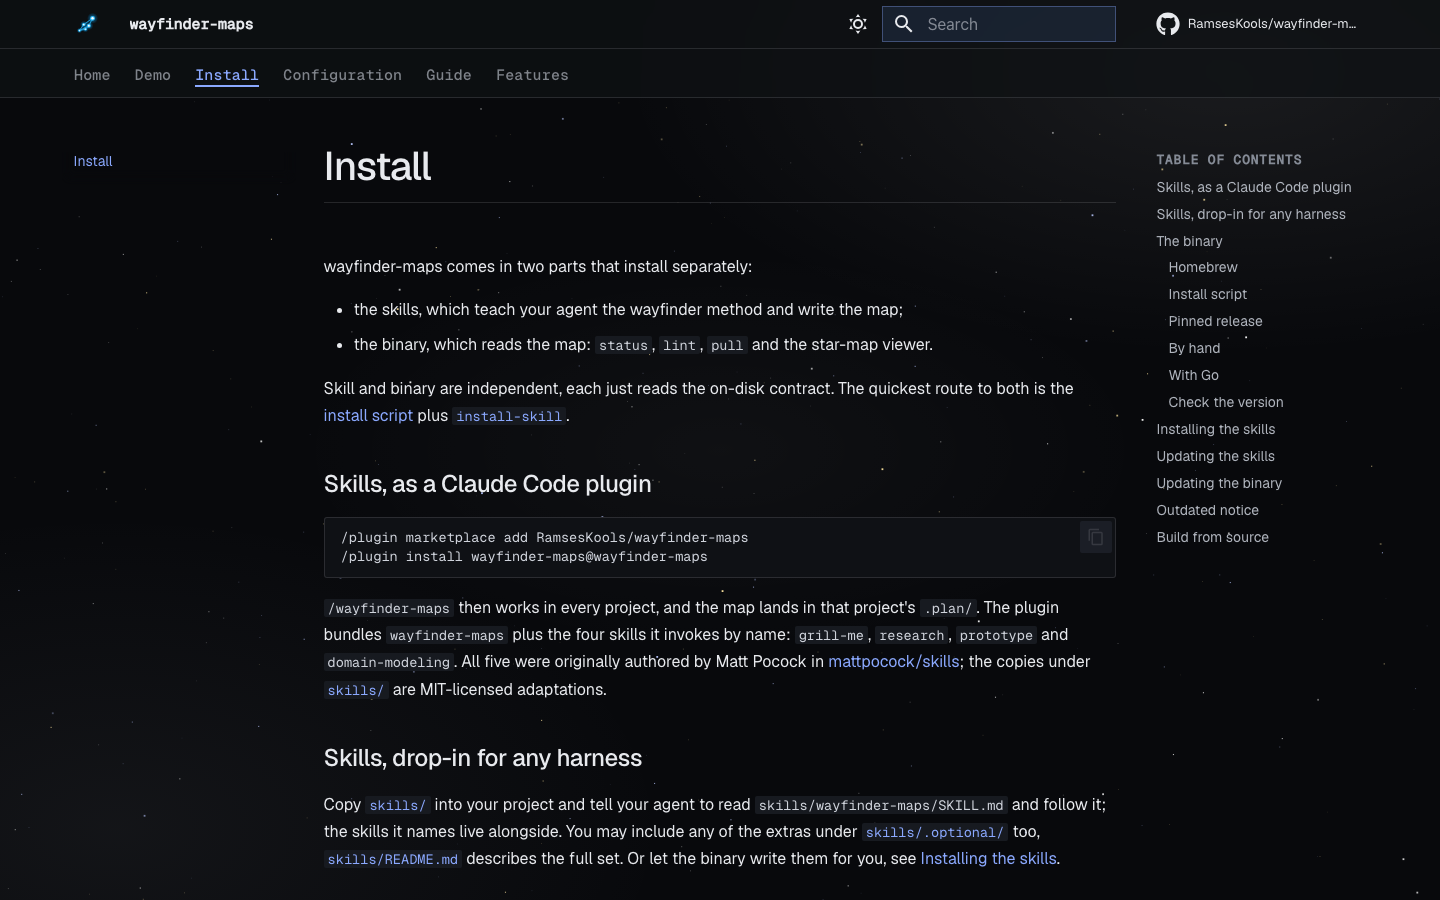
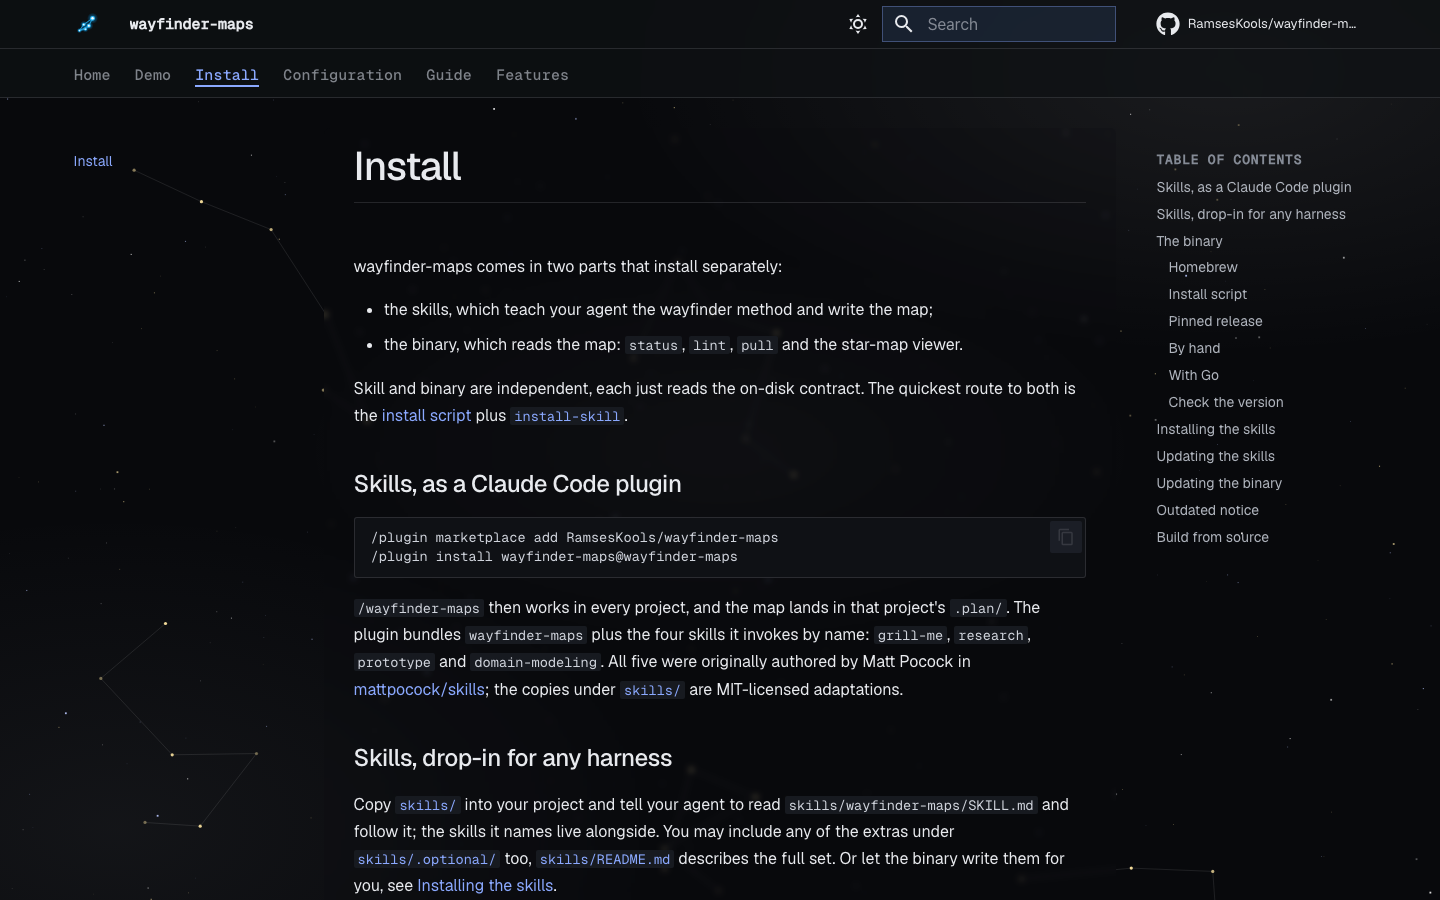
feat(docs): light mode as a printed star chart, constellations in both schemes (v0.20.0)

diff --git a/docs/assets/starfield.js b/docs/assets/starfield.js
@@ -1,12 +1,14 @@
-// Dark-mode star sky: parallax layers that twinkle and drift very slightly, like the viewer.
+// Star sky (dark) and printed star chart (light): parallax layers that twinkle and drift very slightly.
+// Colors, alphas and mark shapes come from the --sf-* tokens in custom.css.
 (() => {
-  const LAYERS = [[0.15, 220, 0.7, 0.5], [0.30, 120, 1.1, 0.7], [0.50, 50, 1.8, 0.95]];
-  const tint = ["#ffffff", "#b9c8ff", "#ffe6a0"];
+  const LAYERS = [[0.15, 220, 0.7], [0.30, 120, 1.1], [0.50, 50, 1.8]];
+  const CONSTELLATIONS = 6, DOT = 2.4;
   const DRIFT = 2.5, TWINKLE = 1.4, SHOOT_SPEED = 500;
   // Random gaps: 10s minimum plus an exponential tail, 60s on average.
   const nextGap = () => 10000 + -Math.log(1 - Math.random()) * 50000;
   const TRAIL = 110, CORNER = 44, TRIPLE_MS = 900;
   const still = matchMedia("(prefers-reduced-motion: reduce)");
+
 
   const canvas = document.createElement("canvas");
   canvas.className = "starfield";
@@ -23,10 +25,53 @@
     };
   }
   const rnd = rng(9001);
-  const layers = LAYERS.map(([f, n, sz, a]) => ({
-    f, sz, a,
-    stars: Array.from({ length: n }, () => ({ x: rnd(), y: rnd(), t: rnd(), c: tint[Math.floor(rnd() * tint.length)] })),
+  const layers = LAYERS.map(([f, n, sz]) => ({
+    f, sz,
+    stars: Array.from({ length: n }, () => ({ x: rnd(), y: rnd(), t: rnd(), c: Math.floor(rnd() * 3) })),
   }));
+
+  // A short chain of bright stars per cell of a 3x2 grid, positioned relative to an anchor.
+  const sky = Array.from({ length: CONSTELLATIONS }, (_, i) => {
+    let x = 0, y = 0;
+    const nodes = [{ x, y, t: rnd() }];
+    for (let k = 3 + Math.floor(rnd() * 3); k > 0; k--) {
+      const a = rnd() * 6.2832, d = 50 + rnd() * 70;
+      x += Math.cos(a) * d; y += Math.sin(a) * d;
+      nodes.push({ x, y, t: rnd() });
+    }
+    const xs = nodes.map((n) => n.x), ys = nodes.map((n) => n.y);
+    const minX = Math.min(...xs), minY = Math.min(...ys);
+    nodes.forEach((n) => { n.x -= minX; n.y -= minY; });
+    return {
+      nodes, w: Math.max(...xs) - minX, h: Math.max(...ys) - minY,
+      ax: ((i % 3) + rnd()) / 3, ay: (Math.floor(i / 3) + rnd()) / 2,
+    };
+  });
+
+  const pal = { stars: [], alpha: [], shape: "square", bright: "square", lines: "", trail: null, head: "", halo: null };
+  const SPEC = document.createElement("canvas").getContext("2d");
+  // Resolves any CSS color to its rgb parts and alpha, so one token can be faded to transparent.
+  function parse(c) {
+    SPEC.fillStyle = "#000"; SPEC.fillStyle = c;
+    const v = SPEC.fillStyle;
+    if (v[0] === "#") return { rgb: [1, 3, 5].map((i) => parseInt(v.slice(i, i + 2), 16)), a: 1 };
+    const [r, g, b, a = 1] = v.match(/[\d.]+/g).map(Number);
+    return { rgb: [r, g, b], a };
+  }
+  const fade = (c, k = 1) => `rgba(${c.rgb.join(",")},${c.a * k})`;
+
+  function readPalette() {
+    const cs = getComputedStyle(document.body);
+    const get = (n) => cs.getPropertyValue(n).trim();
+    pal.stars = get("--sf-stars").split(/\s+/).filter(Boolean);
+    pal.alpha = get("--sf-alpha").split(/\s+/).map(Number);
+    pal.shape = get("--sf-shape");
+    pal.bright = get("--sf-bright");
+    pal.lines = get("--sf-lines");
+    pal.trail = parse(get("--sf-trail"));
+    pal.head = get("--sf-head");
+    pal.halo = parse(get("--sf-halo"));
+  }
 
   let W = 0, H = 0, raf = 0, shot = null, nextShot = 0;
   const mod = (v, m) => ((v % m) + m) % m;
@@ -39,7 +84,7 @@
     draw(performance.now());
   }
 
-  // One star crossing the sky from a random edge point to another edge, with a short glowing trail.
+  // One star crossing the sky from a random edge point to another edge, with a short fading trail.
   function startShot(now) {
     const edge = (e, r) => [[r * W, 0], [W, r * H], [r * W, H], [0, r * H]][e];
     const e0 = Math.floor(Math.random() * 4), e1 = (e0 + 1 + Math.floor(Math.random() * 3)) % 4;
@@ -64,8 +109,8 @@
     if (k >= 1) { shot = null; return; }
     const hx = shot.x0 + shot.dx * shot.len * k, hy = shot.y0 + shot.dy * shot.len * k;
     const tail = ctx.createLinearGradient(hx, hy, hx - shot.dx * TRAIL, hy - shot.dy * TRAIL);
-    tail.addColorStop(0, "rgba(223,232,255,0.6)");
-    tail.addColorStop(1, "rgba(223,232,255,0)");
+    tail.addColorStop(0, fade(pal.trail));
+    tail.addColorStop(1, fade(pal.trail, 0));
     ctx.globalAlpha = 1;
     ctx.strokeStyle = tail;
     ctx.lineWidth = 2;
@@ -74,13 +119,14 @@
     ctx.moveTo(hx, hy);
     ctx.lineTo(hx - shot.dx * TRAIL, hy - shot.dy * TRAIL);
     ctx.stroke();
-    const g = ctx.createRadialGradient(hx, hy, 0, hx, hy, 9);
-    g.addColorStop(0, "rgba(255,255,255,0.6)");
-    g.addColorStop(1, "rgba(255,255,255,0)");
-    ctx.globalAlpha = 1;
-    ctx.fillStyle = g;
-    ctx.fillRect(hx - 9, hy - 9, 18, 18);
-    ctx.fillStyle = "#ffffff";
+    if (pal.halo.a > 0) {
+      const g = ctx.createRadialGradient(hx, hy, 0, hx, hy, 9);
+      g.addColorStop(0, fade(pal.halo));
+      g.addColorStop(1, fade(pal.halo, 0));
+      ctx.fillStyle = g;
+      ctx.fillRect(hx - 9, hy - 9, 18, 18);
+    }
+    ctx.fillStyle = pal.head;
     ctx.beginPath();
     ctx.arc(hx, hy, 1.7, 0, 6.2832);
     ctx.fill();
@@ -100,19 +146,56 @@
     if (clicks.length >= 3) { clicks = []; if (!shot) startShot(performance.now()); }
   });
 
+  function mark(shape, x, y, sz) {
+    if (shape === "cross") {
+      const r = sz * 1.6;
+      ctx.lineWidth = 0.8;
+      ctx.beginPath();
+      ctx.moveTo(x - r, y); ctx.lineTo(x + r, y);
+      ctx.moveTo(x, y - r); ctx.lineTo(x, y + r);
+      ctx.stroke();
+    } else if (shape === "round") {
+      ctx.beginPath();
+      ctx.arc(x, y, sz / 2 + 0.4, 0, 6.2832);
+      ctx.fill();
+    } else {
+      ctx.fillRect(x, y, sz, sz);
+    }
+  }
+
   function draw(now) {
     ctx.clearRect(0, 0, W, H);
     const t = still.matches ? 0 : now / 1000;
     const sy = still.matches ? 0 : scrollY;
-    for (const L of layers) {
+    const twinkle = (s, f) => still.matches ? 1 : 0.65 + 0.35 * Math.sin(s.t * 6.2832 + t * 0.9 * TWINKLE * (0.5 + f));
+    layers.forEach((L, i) => {
+      const front = i === layers.length - 1;
+      const shape = front ? pal.bright : pal.shape;
       for (const s of L.stars) {
         const x = mod(s.x * W + t * DRIFT * L.f * 6, W);
         const y = mod(s.y * H - sy * L.f * 0.25, H);
-        const tw = still.matches ? 1 : 0.65 + 0.35 * Math.sin(s.t * 6.2832 + t * 0.9 * TWINKLE * (0.5 + L.f));
-        ctx.globalAlpha = L.a * tw;
-        ctx.fillStyle = s.c;
-        ctx.fillRect(x, y, L.sz, L.sz);
+        ctx.globalAlpha = pal.alpha[i] * twinkle(s, L.f);
+        ctx.fillStyle = ctx.strokeStyle = pal.stars[s.c];
+        mark(shape, x, y, L.sz);
       }
+    });
+
+    // Constellations ride with the front layer and wrap as a whole, so no line is ever cut by the screen edge.
+    const f = layers[layers.length - 1].f, a = pal.alpha[pal.alpha.length - 1];
+    for (const c of sky) {
+      const ox = mod(c.ax * W + t * DRIFT * f * 6 + c.w, W + 2 * c.w) - c.w;
+      const oy = mod(c.ay * H - sy * f * 0.25 + c.h, H + 2 * c.h) - c.h;
+      ctx.globalAlpha = 1;
+      ctx.strokeStyle = pal.lines;
+      ctx.lineWidth = 1;
+      ctx.beginPath();
+      c.nodes.forEach((n, k) => { if (k) ctx.lineTo(ox + n.x, oy + n.y); else ctx.moveTo(ox + n.x, oy + n.y); });
+      ctx.stroke();
+      c.nodes.forEach((n) => {
+        ctx.globalAlpha = a * twinkle(n, f);
+        ctx.fillStyle = pal.stars[2];
+        mark("round", ox + n.x, oy + n.y, DOT);
+      });
     }
     ctx.globalAlpha = 1;
   }
@@ -125,7 +208,8 @@
 
   function sync() {
     cancelAnimationFrame(raf);
-    if (!document.body || document.body.dataset.mdColorScheme !== "slate") { canvas.style.display = "none"; return; }
+    if (!document.body || !document.body.dataset.mdColorScheme) { canvas.style.display = "none"; return; }
+    readPalette();
     canvas.style.display = "block";
     draw(performance.now());
     if (!still.matches) raf = requestAnimationFrame(frame);

diff --git a/docs/assets/custom.css b/docs/assets/custom.css
@@ -380,7 +380,7 @@ body.image-zoom-lock {
     border-radius: var(--r);
 }
 
-/* Dark mode: Material's slate scheme over a star sky (docs/assets/starfield.js) */
+/* Star sky in dark mode, printed star chart in light mode (docs/assets/starfield.js reads the --sf-* tokens) */
 html {
     --sk-bg: #08090c;
     --sk-surface: #0f1115;
@@ -399,6 +399,14 @@ html {
         radial-gradient(ellipse 60% 45% at 85% 8%, rgba(255, 255, 255, 0.075), transparent 70%),
         radial-gradient(ellipse 55% 50% at 8% 92%, rgba(200, 205, 215, 0.06), transparent 70%),
         radial-gradient(ellipse 40% 30% at 50% 50%, rgba(255, 255, 255, 0.03), transparent 75%);
+    --sk-paper-glow:
+        radial-gradient(ellipse 60% 45% at 85% 8%, rgba(150, 138, 124, 0.12), transparent 70%),
+        radial-gradient(ellipse 55% 50% at 8% 92%, rgba(150, 138, 124, 0.09), transparent 70%);
+}
+
+:root:has(body[data-md-color-scheme="default"]) {
+    background: var(--sk-paper-glow), var(--c-bg);
+    background-attachment: fixed;
 }
 
 :root:has(body[data-md-color-scheme="slate"]) {
@@ -415,8 +423,32 @@ html {
     pointer-events: none;
 }
 
+[data-md-color-scheme="default"] {
+    --sf-stars: #1B2629 #3E77DC #4A6169;
+    --sf-alpha: 0.18 0.3 0.42;
+    --sf-shape: round;
+    --sf-bright: cross;
+    --sf-lines: rgba(27, 38, 41, 0.14);
+    --sf-trail: rgba(62, 119, 220, 0.6);
+    --sf-head: #1B2629;
+    --sf-halo: rgba(0, 0, 0, 0);
+    --sf-glass: rgba(248, 247, 246, 0.75);
+    --sf-panel: rgba(248, 247, 246, 0.22);
+}
+
 [data-md-color-scheme="slate"] {
     color-scheme: dark;
+
+    --sf-stars: #ffffff #b9c8ff #ffe6a0;
+    --sf-alpha: 0.5 0.7 0.95;
+    --sf-shape: square;
+    --sf-bright: square;
+    --sf-lines: rgba(232, 234, 238, 0.1);
+    --sf-trail: rgba(223, 232, 255, 0.6);
+    --sf-head: #ffffff;
+    --sf-halo: rgba(255, 255, 255, 0.6);
+    --sf-glass: var(--sk-glass);
+    --sf-panel: rgba(8, 9, 12, 0.22);
 
     --c-bg: var(--sk-bg);
     --c-surface: var(--sk-surface);
@@ -466,15 +498,15 @@ html {
     --md-shadow-z1: 0 0 0.25rem rgba(0, 0, 0, 0.5);
 }
 
-body[data-md-color-scheme="slate"],
-[data-md-color-scheme="slate"] .md-main,
-[data-md-color-scheme="slate"] .md-container {
+body[data-md-color-scheme],
+[data-md-color-scheme] .md-main,
+[data-md-color-scheme] .md-container {
     background: transparent;
 }
 
-[data-md-color-scheme="slate"] .md-header,
-[data-md-color-scheme="slate"] .md-tabs {
-    background: var(--sk-glass);
+[data-md-color-scheme] .md-header,
+[data-md-color-scheme] .md-tabs {
+    background: var(--sf-glass);
     -webkit-backdrop-filter: blur(10px);
     backdrop-filter: blur(10px);
 }
@@ -555,11 +587,24 @@ body[data-md-color-scheme="slate"],
     color: var(--sk-bg);
 }
 
-[data-md-color-scheme="slate"] .md-sidebar .md-nav__title {
+[data-md-color-scheme] .md-sidebar .md-nav__title {
     background: transparent;
     box-shadow: none;
 }
 
-[data-md-color-scheme="slate"] .md-content__inner::before {
+[data-md-color-scheme] .md-content__inner {
+    background: var(--sf-panel);
+    -webkit-backdrop-filter: blur(3px);
+    backdrop-filter: blur(3px);
+    border-radius: 6px;
+    padding: 0.6rem 1.5rem 1rem;
+}
+
+[data-md-color-scheme] .md-nav--lifted > .md-nav__list > .md-nav__item--active > .md-nav__link {
+    background: transparent;
+    box-shadow: none;
+}
+
+[data-md-color-scheme] .md-content__inner::before {
     display: none;
 }

diff --git a/docs/features/dark-mode.md b/docs/features/dark-mode.md
@@ -1,31 +1,42 @@
-# Dark mode
+# Light and dark mode
 
 The moon or sun button in the header switches the docs site between light and dark.
 The choice is saved in the browser, and the first visit follows the system setting.
 
-![The install page in light mode](../images/dark-mode-light.png)
+![The install page in light mode, on the star chart](../images/dark-mode-light.png)
 
 ![The install page in dark mode, on the star sky](../images/dark-mode-dark.png)
 
 ## The sky
 
-The dark scheme sits on a night sky like the viewer's: three layers of stars that twinkle and drift very slightly, with a soft gray glow in the corners.
+Both schemes draw the same sky: three layers of stars that twinkle and drift very slightly, and a few small constellations.
 Stars shift a little as you scroll, and the header, tabs and sidebar are translucent so the sky shows through.
+The text column sits on a faint, blurred panel that mutes the sky behind it, so reading stays easy.
 With `prefers-reduced-motion` the stars stay still and no shooting star appears.
+
+- Dark mode is a night sky: white, pale blue and gold stars with a soft gray glow in the corners.
+- Light mode is a printed star chart: faint ink dots in dark teal, ACD blue and slate on a stone-white page, the brightest stars as tiny `+` crosses, with a warm gray glow in the corners.
+
+## Constellations
+
+A handful of constellations are scattered across the sky: short chains of bright stars joined by faint lines.
+They drift with the front layer of stars and show up the same way in both schemes, in light lines on dark and in ink on light.
 
 ## Shooting star
 
 A star crosses the sky from one edge to another every minute or so, at random.
-It looks like a normal star with a short glowing trail.
+In dark mode it is a normal star with a short glowing trail, in light mode a fading blue ink stroke with a dark head.
 
-![A shooting star with its glowing trail](../images/dark-mode-shooting-star.png)
+![A shooting star in dark mode](../images/dark-mode-shooting-star.png)
+
+![A shooting star in light mode](../images/dark-mode-shooting-star-light.png)
 
 To see one right away, triple-click the bottom right corner of the page, on bare sky (a small spot, not a button).
 Nothing is drawn there, and the click does nothing on text, links, images, code or any other content.
 
 ## Page elements
 
-Headings, body text, links, code, admonitions, tables, images, search and the footer all use a dark palette from the same tokens as the light one: ACD blue (lighter), sage green and dark teal surfaces, with links turning gold on hover.
+Headings, body text, links, code, admonitions, tables, images, search and the footer all use a palette from the same tokens in both schemes: ACD blue, sage green and dark teal surfaces, with links turning gold on hover in dark mode.
 
 ![Page elements in light mode](../images/dark-mode-elements-light.png)
 

diff --git a/docs/features/index.md b/docs/features/index.md
@@ -28,7 +28,7 @@ A map with no implement tickets reads exactly as it does upstream.
 | [`self-update`](self-update.md) | The binary upgrades itself, except under Homebrew, which hides and refuses it |
 | [Outdated notice](update-notice.md) | A short stderr notice with the right update command when a newer release exists, and the latest version in the settings menu; cached for a day and easy to silence |
 | [Logo](logo.md) | A small constellation as the favicon, the splash logo and the mark on the map |
-| [Dark mode](dark-mode.md) | A light or dark docs site behind a header toggle, with a star sky and the odd shooting star |
+| [Light and dark mode](dark-mode.md) | A light star chart or a dark night sky behind a header toggle, with constellations and the odd shooting star |
 | [`--version`](../install.md#check-the-version) | On `wayfinder-maps` and the Linux webview helper; the CLI adds how it was installed and where |
 
 The [design record](https://github.com/RamsesKools/wayfinder-maps/blob/main/docs/implement-phase-design.md) has the full plan for the implement phase.
